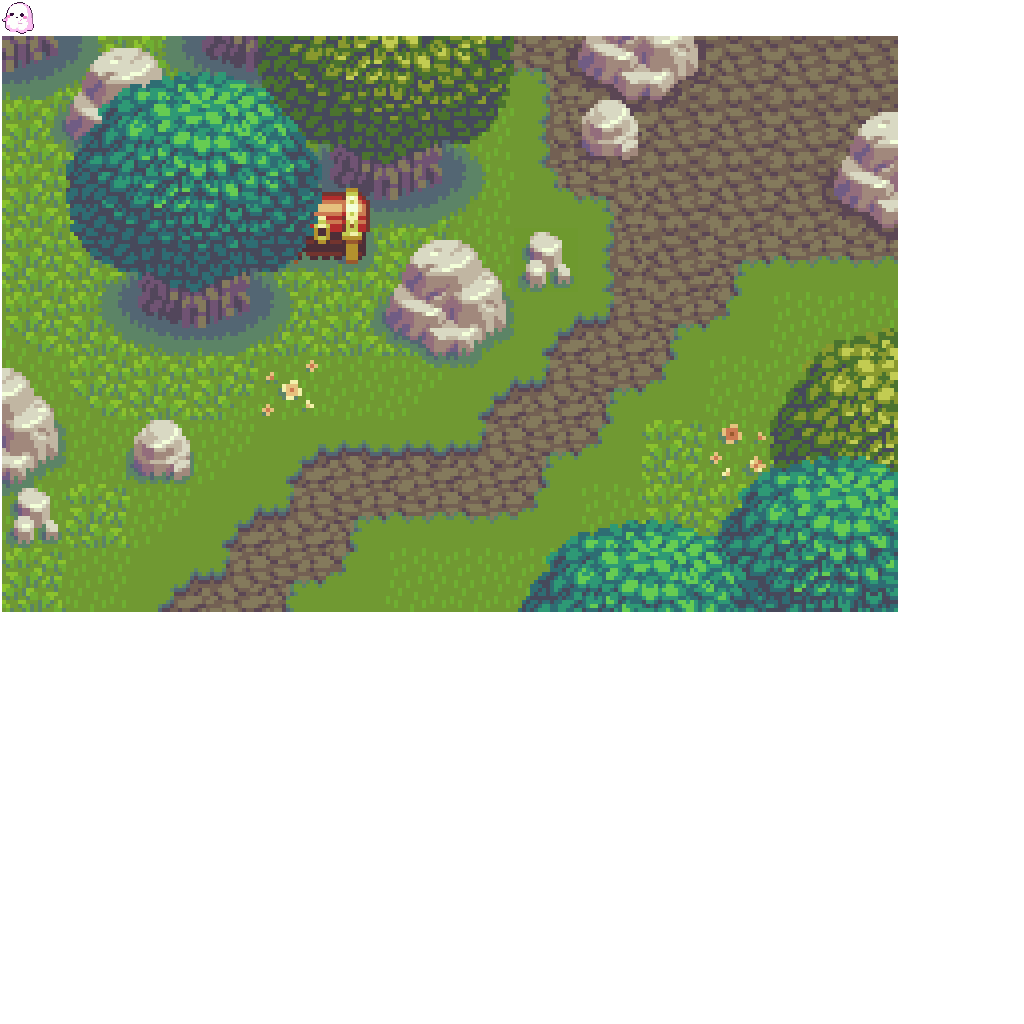
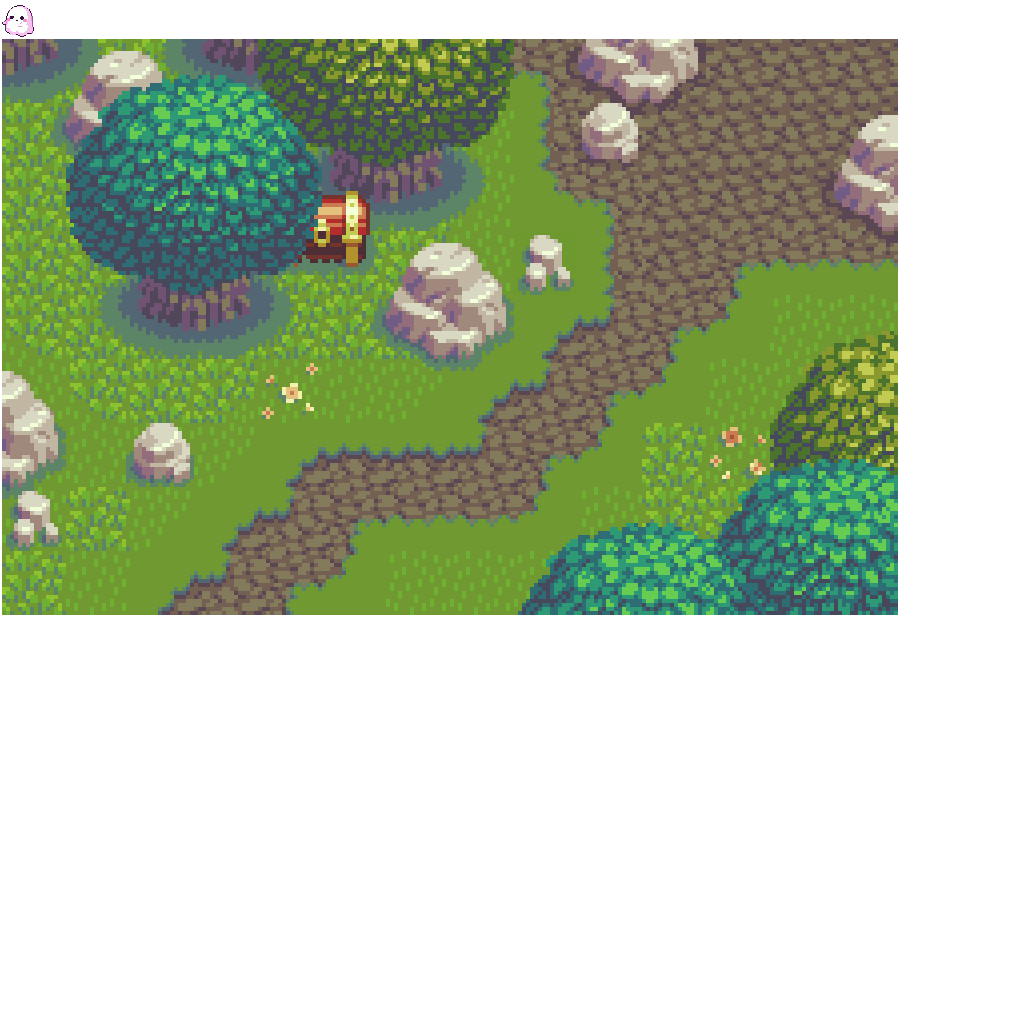
added tiled map

Changed region(s): [[0.0, 0.0, 0.875, 0.625], [0.5, 0.3125, 0.875, 0.625]]

diff --git a/core/src/no/sandramoen/prideart2022/actors/TilemapActor.kt b/core/src/no/sandramoen/prideart2022/actors/TilemapActor.kt
@@ -1,0 +1,96 @@
+package no.sandramoen.prideart2022.actors
+
+import com.badlogic.gdx.graphics.OrthographicCamera
+import com.badlogic.gdx.graphics.g2d.Batch
+import com.badlogic.gdx.maps.MapLayer
+import com.badlogic.gdx.maps.MapObject
+import com.badlogic.gdx.maps.objects.RectangleMapObject
+import com.badlogic.gdx.maps.tiled.TiledMap
+import com.badlogic.gdx.maps.tiled.objects.TiledMapTileMapObject
+import com.badlogic.gdx.maps.tiled.renderers.OrthoCachedTiledMapRenderer
+import com.badlogic.gdx.scenes.scene2d.Actor
+import com.badlogic.gdx.scenes.scene2d.Stage
+import no.sandramoen.prideart2022.utils.BaseActor
+import java.util.ArrayList
+
+class TilemapActor(private val tiledMap: TiledMap?, stage: Stage) : Actor() {
+    companion object {
+        const val unitScale = .15f
+    }
+
+    private var tiledMapRenderer: OrthoCachedTiledMapRenderer
+
+    init {
+        val tileWidth = tiledMap!!.properties.get("tilewidth") as Int
+        val tileHeight = tiledMap.properties.get("tileheight") as Int
+        val numTilesHorizontal = tiledMap.properties.get("width") as Int
+        val numTilesVertical = tiledMap.properties.get("height") as Int
+        val mapWidth = tileWidth * numTilesHorizontal
+        val mapHeight = tileHeight * numTilesVertical
+
+        BaseActor.setWorldBounds(mapWidth.toFloat() * unitScale, mapHeight.toFloat() * unitScale)
+        tiledMapRenderer = OrthoCachedTiledMapRenderer(tiledMap, unitScale)
+        tiledMapRenderer.setBlending(true)
+        stage.addActor(this)
+    }
+
+    override fun draw(batch: Batch?, parentAlpha: Float) {
+        tiledMapRenderer.setView(stage.camera as OrthographicCamera)
+        tiledMapRenderer.render()
+    }
+
+    fun getRectangleList(propertyName: String): ArrayList<MapObject> {
+        val list = ArrayList<MapObject>()
+        for (layer in tiledMap!!.layers) {
+            for (obj in layer.objects) {
+                if (obj !is RectangleMapObject)
+                    continue
+
+                val props = obj.getProperties()
+                if (props.containsKey("name") && props.get("name") == propertyName)
+                    list.add(obj)
+            }
+        }
+        return list
+    }
+
+    fun getTileList(propertyName: String): ArrayList<MapObject> {
+        val list = ArrayList<MapObject>()
+
+        for (layer: MapLayer in tiledMap!!.layers) {
+            for (obj: MapObject in layer.objects) {
+                if (obj !is TiledMapTileMapObject)
+                    continue
+
+                val props = obj.properties
+
+                // Default MapProperties are stored within associated Tile object
+                // Instance-specific overrides are stored in MapObject
+
+                val tmtmo: TiledMapTileMapObject = obj
+                val t = tmtmo.tile
+                val defaultProps = t.properties
+
+                if (defaultProps.containsKey("name") && defaultProps.get("name") == propertyName)
+                    list.add(obj)
+
+                // get list of default property keys
+                val propertyKeys = defaultProps.keys
+
+                // iterate over keys; copy default values into props if needed
+                while (propertyKeys.hasNext()) {
+                    val key = propertyKeys.next()
+
+                    // check if value already exists; if not, create property with default value
+                    if (props.containsKey(key)) {
+                        continue
+                    } else {
+                        val value = defaultProps.get(key)
+                        props.put(key, value)
+                    }
+                }
+            }
+        }
+        return list
+    }
+}

diff --git a/core/src/no/sandramoen/prideart2022/utils/BaseGame.kt b/core/src/no/sandramoen/prideart2022/utils/BaseGame.kt
@@ -1,7 +1,10 @@
 package no.sandramoen.prideart2022.utils
 
-import com.badlogic.gdx.*
+import com.badlogic.gdx.Game
+import com.badlogic.gdx.Gdx
 import com.badlogic.gdx.Input.Keys
+import com.badlogic.gdx.InputMultiplexer
+import com.badlogic.gdx.Preferences
 import com.badlogic.gdx.assets.AssetDescriptor
 import com.badlogic.gdx.assets.AssetErrorListener
 import com.badlogic.gdx.assets.AssetManager
@@ -16,11 +19,14 @@ import com.badlogic.gdx.graphics.g2d.freetype.FreeTypeFontGenerator
 import com.badlogic.gdx.graphics.g2d.freetype.FreeTypeFontGenerator.FreeTypeFontParameter
 import com.badlogic.gdx.graphics.g2d.freetype.FreeTypeFontGeneratorLoader
 import com.badlogic.gdx.graphics.g2d.freetype.FreetypeFontLoader
+import com.badlogic.gdx.maps.tiled.TiledMap
+import com.badlogic.gdx.maps.tiled.TmxMapLoader
 import com.badlogic.gdx.scenes.scene2d.ui.Label.LabelStyle
 import com.badlogic.gdx.scenes.scene2d.ui.Skin
 import com.badlogic.gdx.scenes.scene2d.ui.TextButton.TextButtonStyle
 import com.badlogic.gdx.utils.I18NBundle
 import kotlin.system.measureTimeMillis
+
 
 abstract class BaseGame : Game(), AssetErrorListener {
     init { game = this }
@@ -49,6 +55,7 @@ abstract class BaseGame : Game(), AssetErrorListener {
         var experiencePickupSound: Sound? = null
         var playerDeathSound: Sound? = null
         var playerLevelUpSound: Sound? = null
+        var level1: TiledMap? = null
 
         // game state
         var prefs: Preferences? = null
@@ -107,6 +114,10 @@ abstract class BaseGame : Game(), AssetErrorListener {
             // shaders
             // assetManager.load(AssetDescriptor("shaders/default.vs", Text::class.java, TextLoader.TextParameter()))
 
+            // tiled maps
+            assetManager.setLoader(TiledMap::class.java, TmxMapLoader(InternalFileHandleResolver()))
+            assetManager.load("map/level1.tmx", TiledMap::class.java)
+
             assetManager.finishLoading()
 
             textureAtlas = assetManager.get("images/included/packed/images.pack.atlas") // all images are found in this global static variable
@@ -130,6 +141,9 @@ abstract class BaseGame : Game(), AssetErrorListener {
 
             // i18n
             // myBundle = assetManager["i18n/MyBundle", I18NBundle::class.java]
+
+            // tiled map
+            level1 = assetManager.get("map/level1.tmx", TiledMap::class.java)
 
             // fonts
             FreeTypeFontGenerator.setMaxTextureSize(2048) // solves font bug that won't show some characters like "." and "," in android

diff --git a/core/src/no/sandramoen/prideart2022/screens/LevelScreen.kt b/core/src/no/sandramoen/prideart2022/screens/LevelScreen.kt
@@ -10,6 +10,7 @@ import com.badlogic.gdx.scenes.scene2d.ui.Label
 import no.sandramoen.prideart2022.actors.enemies.Charger
 import no.sandramoen.prideart2022.actors.Experience
 import no.sandramoen.prideart2022.actors.Player
+import no.sandramoen.prideart2022.actors.TilemapActor
 import no.sandramoen.prideart2022.actors.enemies.Shooter
 import no.sandramoen.prideart2022.actors.enemies.Shot
 import no.sandramoen.prideart2022.myUI.ExperienceBar
@@ -18,6 +19,7 @@ import no.sandramoen.prideart2022.utils.*
 class LevelScreen : BaseScreen() {
     private lateinit var ground: BaseActor
     private lateinit var player: Player
+    private lateinit var tilemap: TilemapActor
     private lateinit var enemySpawner: BaseActor
     private var isGameOver = false
 
@@ -25,13 +27,8 @@ class LevelScreen : BaseScreen() {
     private lateinit var experienceBar: ExperienceBar
 
     override fun initialize() {
-        ground = BaseActor(0f, 0f, mainStage)
-        // ground.loadImage("ground")
-        ground.loadTexture("images/excluded/ground1.png")
-        ground.setSize(BaseGame.WORLD_WIDTH, BaseGame.WORLD_HEIGHT)
-
-        player = Player(mainStage)
-
+        tilemap = TilemapActor(BaseGame.level1, mainStage)
+        player = Player(100f, 100f, mainStage)
         spawnEnemies()
 
         uiSetup()

diff --git a/core/src/no/sandramoen/prideart2022/utils/BaseActor.kt b/core/src/no/sandramoen/prideart2022/utils/BaseActor.kt
@@ -13,6 +13,7 @@ import com.badlogic.gdx.graphics.g2d.TextureAtlas
 import com.badlogic.gdx.math.*
 import com.badlogic.gdx.utils.Array
 import com.badlogic.gdx.scenes.scene2d.Group
+import no.sandramoen.prideart2022.actors.TilemapActor
 import kotlin.math.abs
 
 open class BaseActor(x: Float, y: Float, s: Stage) : Group() {
@@ -93,6 +94,12 @@ open class BaseActor(x: Float, y: Float, s: Stage) : Group() {
     fun setAnimation(anim: Animation<TextureAtlas.AtlasRegion>) {
         animation = anim
         animationTime = 0f
+
+        val tr: TextureRegion = animation!!.getKeyFrame(0.toFloat())
+        val w: Float = tr.regionWidth.toFloat() * TilemapActor.unitScale
+        val h: Float = tr.regionHeight.toFloat() * TilemapActor.unitScale
+        setSize(w, h)
+        setOrigin(w / 2, h / 2)
 
         if (boundaryPolygon == null)
             setBoundaryRectangle()

diff --git a/core/src/no/sandramoen/prideart2022/actors/Player.kt b/core/src/no/sandramoen/prideart2022/actors/Player.kt
@@ -10,22 +10,20 @@ import com.badlogic.gdx.scenes.scene2d.Stage
 import com.badlogic.gdx.scenes.scene2d.actions.Actions
 import com.badlogic.gdx.utils.Align
 import no.sandramoen.prideart2022.utils.BaseActor
-import no.sandramoen.prideart2022.utils.BaseGame
 import no.sandramoen.prideart2022.utils.XBoxGamepad
 
-class Player(stage: Stage) : BaseActor(0f, 0f, stage) {
+class Player(x: Float, y: Float, stage: Stage) : BaseActor(0f, 0f, stage) {
     init {
         loadImage("ghost")
-        setSize(4f, 4f)
-        centerAtPosition(BaseGame.WORLD_WIDTH / 2, BaseGame.WORLD_HEIGHT / 2)
+        centerAtPosition(x, y)
         debug = true
 
         setAcceleration(200f)
         setMaxSpeed(25f)
         setDeceleration(200f)
 
-        zoomCamera(.5f)
         alignCamera()
+        zoomCamera(.6f)
 
         setBoundaryPolygon(8)
         setOrigin(Align.center)

diff --git a/core/src/no/sandramoen/prideart2022/utils/BaseScreen.kt b/core/src/no/sandramoen/prideart2022/utils/BaseScreen.kt
@@ -12,6 +12,7 @@ import com.badlogic.gdx.scenes.scene2d.Stage
 import com.badlogic.gdx.scenes.scene2d.ui.Table
 import com.badlogic.gdx.utils.viewport.ExtendViewport
 import com.badlogic.gdx.utils.viewport.ScreenViewport
+import no.sandramoen.prideart2022.actors.TilemapActor
 
 abstract class BaseScreen : Screen, InputProcessor, ControllerListener {
     protected var mainStage: Stage

diff --git a/core/src/no/sandramoen/prideart2022/actors/Experience.kt b/core/src/no/sandramoen/prideart2022/actors/Experience.kt
@@ -10,9 +10,8 @@ class Experience(x: Float, y: Float, stage: Stage, amount: Int) : BaseActor(x, y
     val amount = amount
 
     init {
-        loadImage("whitePixel")
+        loadImage("experience")
         color = Color.PINK
-        setSize(2f, 2f)
         centerAtPosition(x, y)
         setBoundaryRectangle()
         setOrigin(Align.center)

diff --git a/core/src/no/sandramoen/prideart2022/actors/enemies/Shot.kt b/core/src/no/sandramoen/prideart2022/actors/enemies/Shot.kt
@@ -11,8 +11,7 @@ class Shot(x: Float, y: Float, stage: Stage, angle: Float) : BaseActor(x, y, sta
     private val movementSpeed = 10f
 
     init {
-        loadImage("whitePixel")
-        setSize(3f, 3f)
+        loadImage("shot")
         centerAtPosition(x, y)
         color = Color.YELLOW
 

diff --git a/core/src/no/sandramoen/prideart2022/actors/enemies/Shooter.kt b/core/src/no/sandramoen/prideart2022/actors/enemies/Shooter.kt
@@ -23,7 +23,6 @@ class Shooter(x: Float, y: Float, stage: Stage, player: Player) : BaseActor(x, y
 
     init {
         loadImage("ghost")
-        setSize(3f, 5f)
         color = Color.MAGENTA
         debug = true
 

diff --git a/core/src/no/sandramoen/prideart2022/actors/enemies/Charger.kt b/core/src/no/sandramoen/prideart2022/actors/enemies/Charger.kt
@@ -28,7 +28,6 @@ class Charger(x: Float, y: Float, stage: Stage, player: Player) : BaseActor(x, y
 
     init {
         loadImage("ghost")
-        setSize(4f, 4f)
         color = Color.RED
         debug = true
 
